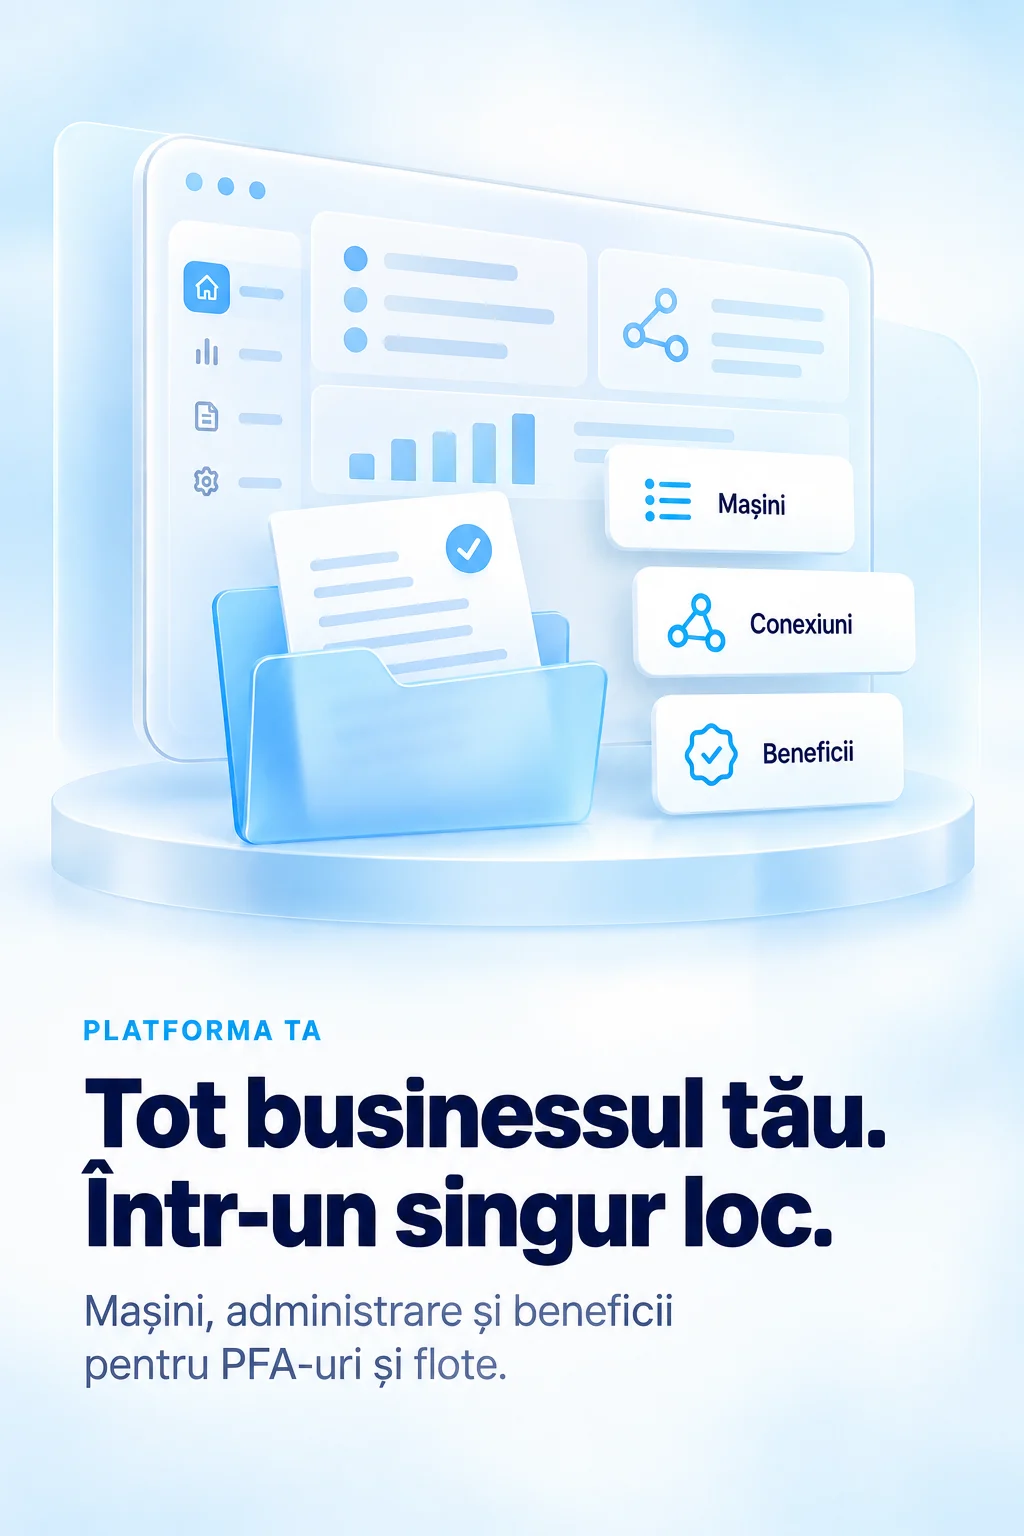
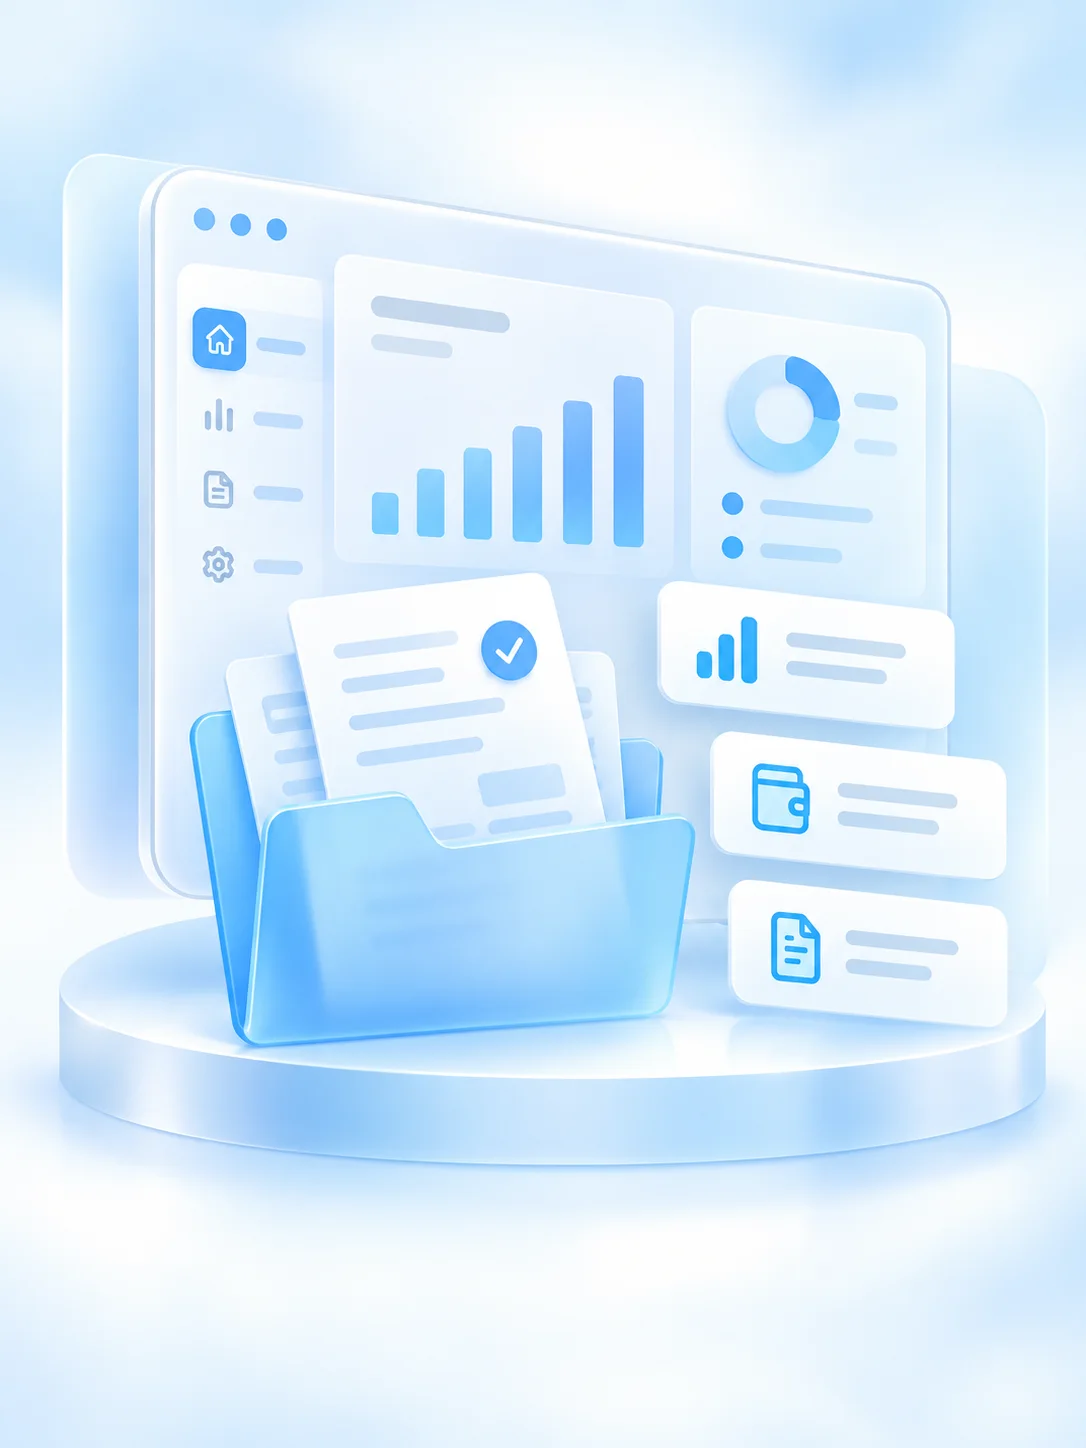
feat(auth): pozele noi de login umplu chenarul, cu textul scris peste ele

diff --git a/src/components/auth/shell/AuthSlider.tsx b/src/components/auth/shell/AuthSlider.tsx
@@ -10,38 +10,52 @@ import login3 from '../../../assets/auth/login-3.webp'
 
 interface AuthSlide {
   image: string
-  /** Textul din imagine, pentru cititoarele de ecran — pe slide e desenat în poză. */
-  caption: string
+  label: string
+  /** Cele două rânduri ale titlului. */
+  title: [string, string]
+  text: string
 }
 
 /**
  * Cele trei slide-uri din stânga cardului: platforma, PFA, SRL.
  *
- * Titlurile sunt desenate în imagini, deci peste ele nu se mai pune text și nici vălul întunecat
- * care îi dădea contrast. Imaginile sunt portret (2:3) și se așază întregi (`contain`) pe un fundal
- * cu nuanța marginilor lor: tăiate (`cover`) își pierdeau fie ilustrația, fie titlul, după cât de
- * înalt iese formularul din dreapta.
+ * Imaginile sunt doar ilustrația, fără text: umplu tot chenarul (`cover`), prinse de marginea de
+ * sus, unde stă ilustrația. Textul e scris peste ele, jos, pe un văl deschis care topește podiumul
+ * în fundal și îi dă contrast.
  */
 const SLIDES: AuthSlide[] = [
-  { image: login1, caption: 'Platforma ta. Tot businessul tău. Într-un singur loc.' },
-  { image: login2, caption: 'Pentru PFA. PFA-ul tău. Mai simplu, zi de zi.' },
-  { image: login3, caption: 'Pentru SRL și flote. Flota ta. Totul sub control.' },
+  {
+    image: login1,
+    label: 'Platforma ta',
+    title: ['Tot businessul tău.', 'Într-un singur loc.'],
+    text: 'Mașini, administrare și beneficii pentru PFA-uri și flote.',
+  },
+  {
+    image: login2,
+    label: 'Pentru PFA',
+    title: ['PFA-ul tău.', 'Mai simplu, zi de zi.'],
+    text: 'Gestionează veniturile, cheltuielile și documentele dintr-un singur loc.',
+  },
+  {
+    image: login3,
+    label: 'Pentru SRL și flote',
+    title: ['Flota ta.', 'Totul sub control.'],
+    text: 'Gestionează mașinile, închirierile și documentele într-un singur loc.',
+  },
 ]
 
-/** Nuanțele marginilor imaginilor, de sus în jos. */
-const SLIDE_BACKGROUND = 'linear-gradient(180deg, #DEF1FE 0%, #F6FBFE 50%, #F2F9FE 72%, #D8EFFE 100%)'
+/** Nuanța de jos a imaginilor: se vede doar până se încarcă poza. */
+const SLIDE_BACKGROUND = '#EEF7FE'
+
+/** Vălul de sub text: transparent peste ilustrație, plin în dreptul titlului. */
+const TEXT_VEIL = `linear-gradient(180deg, ${alpha(SLIDE_BACKGROUND, 0)} 0%, ${alpha(SLIDE_BACKGROUND, 0.94)} 30%, ${SLIDE_BACKGROUND} 100%)`
+
+const TITLE_COLOR = '#0B1B4D'
+
+/** Albastrul platformei, închis cât să se citească pe fundalul deschis. */
+const LABEL_COLOR = '#1A8FE3'
 
 const INTERVAL_MS = 6000
-
-/** Ascuns vizual, citit de cititoarele de ecran. */
-const visuallyHidden = {
-  position: 'absolute',
-  width: 1,
-  height: 1,
-  overflow: 'hidden',
-  clip: 'rect(0 0 0 0)',
-  whiteSpace: 'nowrap',
-} as const
 
 export function AuthSlider() {
   const [active, setActive] = useState(0)
@@ -78,16 +92,66 @@ export function AuthSlider() {
             transition: `opacity 700ms ${TOKENS.easing}, transform 1200ms ${TOKENS.easing}`,
           }}
         >
-          {/* Marginile pozei se topesc în fundal: altfel laturile lăsate libere de `contain` se
-              vedeau ca două benzi. */}
           <Box
             sx={{
               position: 'absolute',
               inset: 0,
-              background: `center / contain no-repeat url(${slide.image})`,
-              maskImage: 'linear-gradient(90deg, transparent 0%, #000 14%, #000 86%, transparent 100%)',
+              background: `center top / cover no-repeat url(${slide.image})`,
             }}
           />
+
+          <Box
+            sx={{
+              position: 'absolute',
+              left: 0,
+              right: 0,
+              bottom: 0,
+              px: { md: 3.5, lg: 4.5 },
+              pt: 7,
+              pb: 5.5,
+              background: TEXT_VEIL,
+            }}
+          >
+            <Box
+              sx={{
+                fontSize: '0.74rem',
+                fontWeight: 700,
+                letterSpacing: '0.16em',
+                textTransform: 'uppercase',
+                color: LABEL_COLOR,
+              }}
+            >
+              {slide.label}
+            </Box>
+            <Box
+              component="p"
+              sx={{
+                m: 0,
+                mt: 1,
+                fontSize: { md: '1.6rem', lg: '1.9rem' },
+                fontWeight: 800,
+                lineHeight: 1.12,
+                letterSpacing: '-0.02em',
+                color: TITLE_COLOR,
+              }}
+            >
+              {slide.title[0]}
+              <br />
+              {slide.title[1]}
+            </Box>
+            <Box
+              component="p"
+              sx={{
+                m: 0,
+                mt: 1,
+                fontSize: '0.9rem',
+                lineHeight: 1.4,
+                color: alpha(TITLE_COLOR, 0.72),
+              }}
+            >
+              {slide.text}
+            </Box>
+          </Box>
         </Box>
       ))}
 
@@ -118,10 +182,6 @@ export function AuthSlider() {
         Înapoi la site
         <ArrowForwardRoundedIcon sx={{ fontSize: 16 }} />
       </Link>
-
-      <Box component="p" sx={visuallyHidden}>
-        {SLIDES[active].caption}
-      </Box>
 
       <Box sx={{ position: 'absolute', left: 0, right: 0, bottom: 16, textAlign: 'center' }}>
         <Box sx={{ display: 'flex', justifyContent: 'center', gap: 1 }}>
